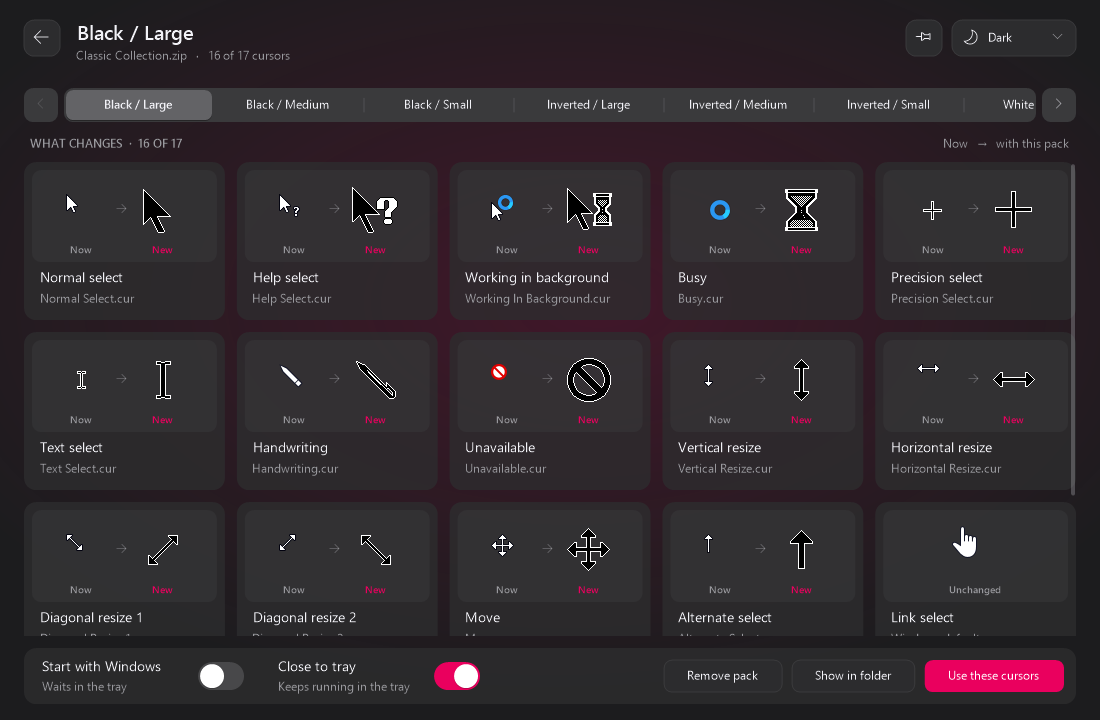
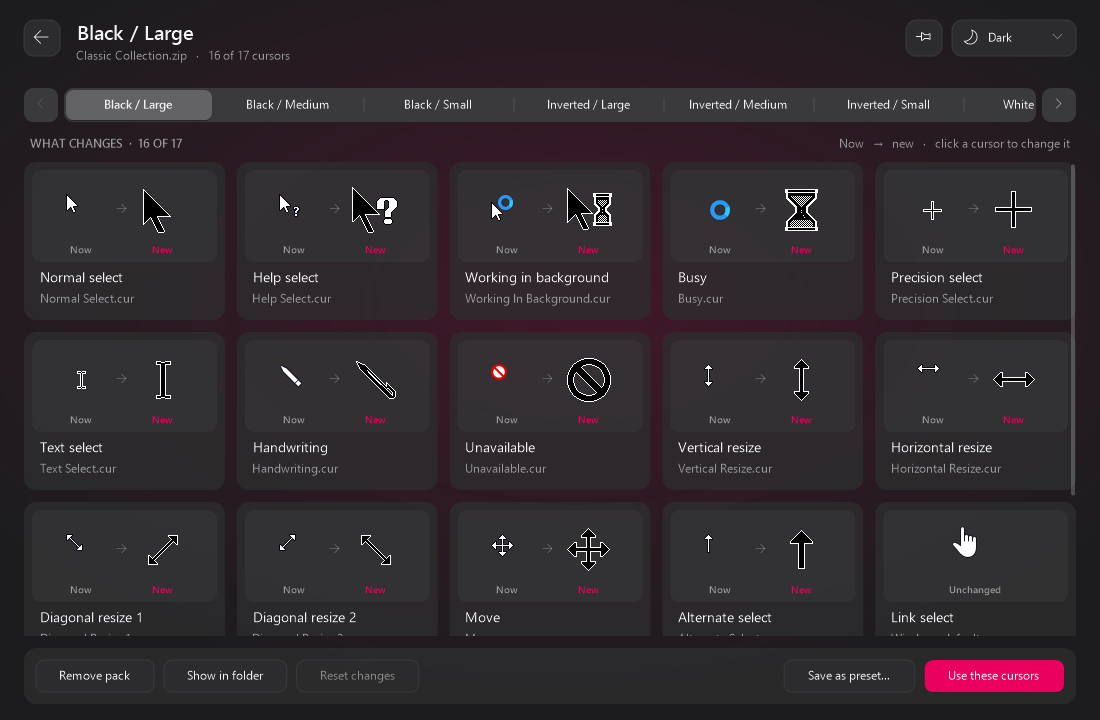
v1.1.0: release notes, screenshots, version bump

diff --git a/src/ui.rs b/src/ui.rs
@@ -2639,6 +2639,9 @@ pub fn self_test(app: &mut App, dir: &Path) {
                 && app.state.active.as_ref().is_some_and(|a| a.archive == "Dragged Pack.zip"),
         );
         let _ = std::fs::remove_dir_all(&tmp);
+        // Leave the folder as it was for the checks that follow.
+        let _ = std::fs::remove_file(app.drop_dir.join("Dragged Pack.zip"));
+        app.scan(false);
         go_list(app);
     }
 

diff --git a/docs/release-notes/v1.1.0.md b/docs/release-notes/v1.1.0.md
@@ -1,0 +1,10 @@
+Choose any cursor yourself, and save your own presets.
+
+**Download `CursorDrop-v1.1.0-win64.zip`**, exit the running CursorDrop (tray icon > Exit), unzip it over your old CursorDrop folder (or anywhere) and run `CursorDrop.exe`. Your packs and settings carry over.
+
+### New
+- **Pick any cursor by hand.** Click a cursor in a pack's grid to choose a different one: any cursor in the pack (grouped by folder, with likely matches marked), a cursor from another pack or preset, **Keep current**, or **Windows default**. Great for packs whose file names don't say which cursor is which. Changed cursors are marked **Edited**, **Reset changes** puts the pack back, and your choices are used when you click **Use these cursors**.
+- **Presets.** **Current cursors**, always first in the list, shows what Windows uses right now. Change any of its cursors, or a pack's, and **Save as preset…** (or **Save and use**). A preset copies its cursor files, so it keeps working even if the packs it came from are removed. Presets can be used, changed, renamed and deleted, and are in the tray menu too.
+- **Better file-name matching**: names like `accuracy`, `stop`, `width`, `height`, `ne`/`nw`, `alternative`, and packs that call their normal pointer just `<name>.cur` (next to `<name>_busy.ani` and so on) are now recognised. Packs you already have are re-read once on first start.
+
+SHA-256 of the zip is in `CursorDrop-v1.1.0-win64.zip.sha256`.

diff --git a/README.md b/README.md
@@ -14,6 +14,8 @@ replace before you use it.
 
 ![The cursors in a pack, now vs. new](docs/cursors.png)
 
+![Choosing a different cursor for one slot](docs/picker.png)
+
 ![Dragging a pack onto the window](docs/drop.png)
 
 ## Download
